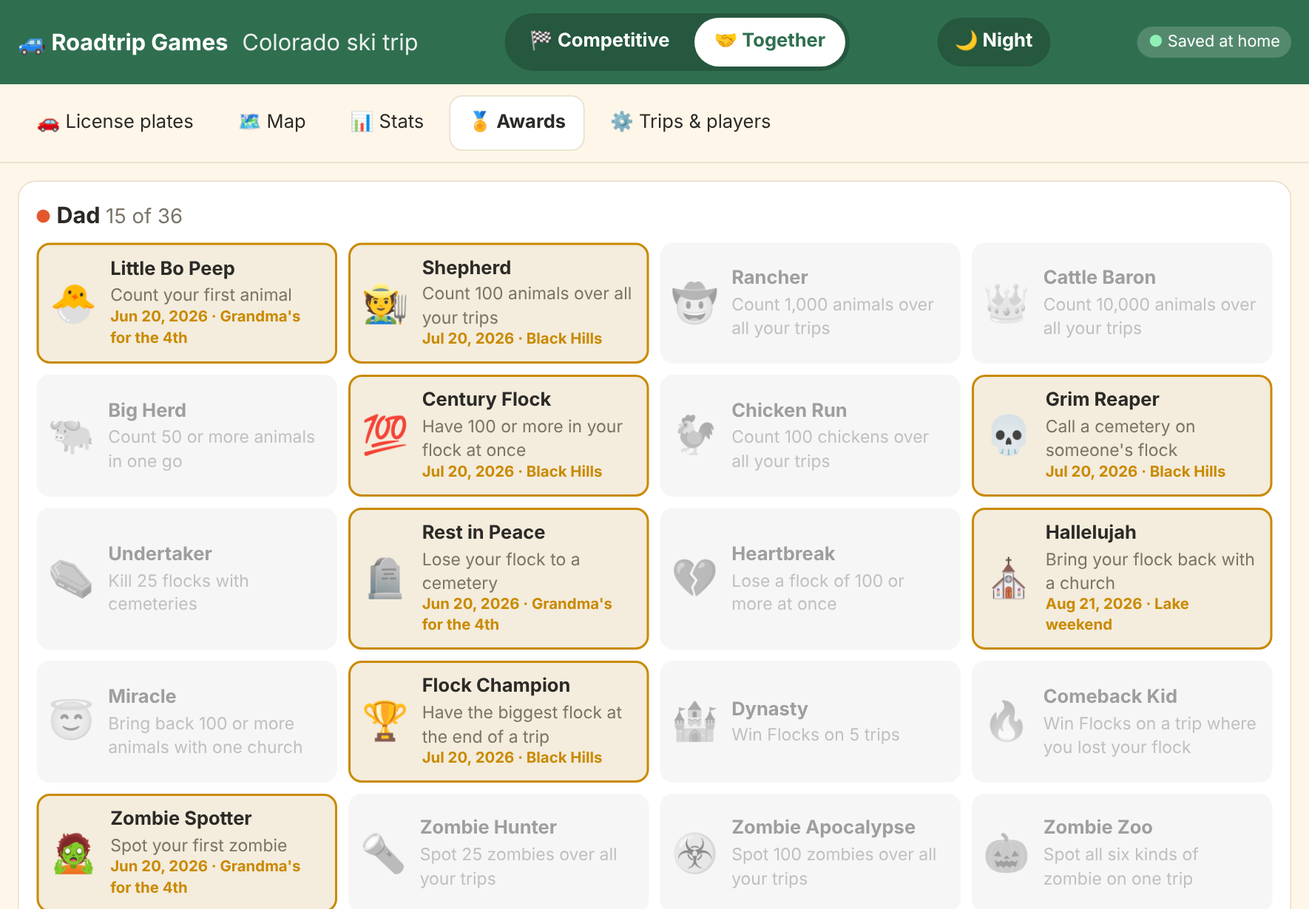
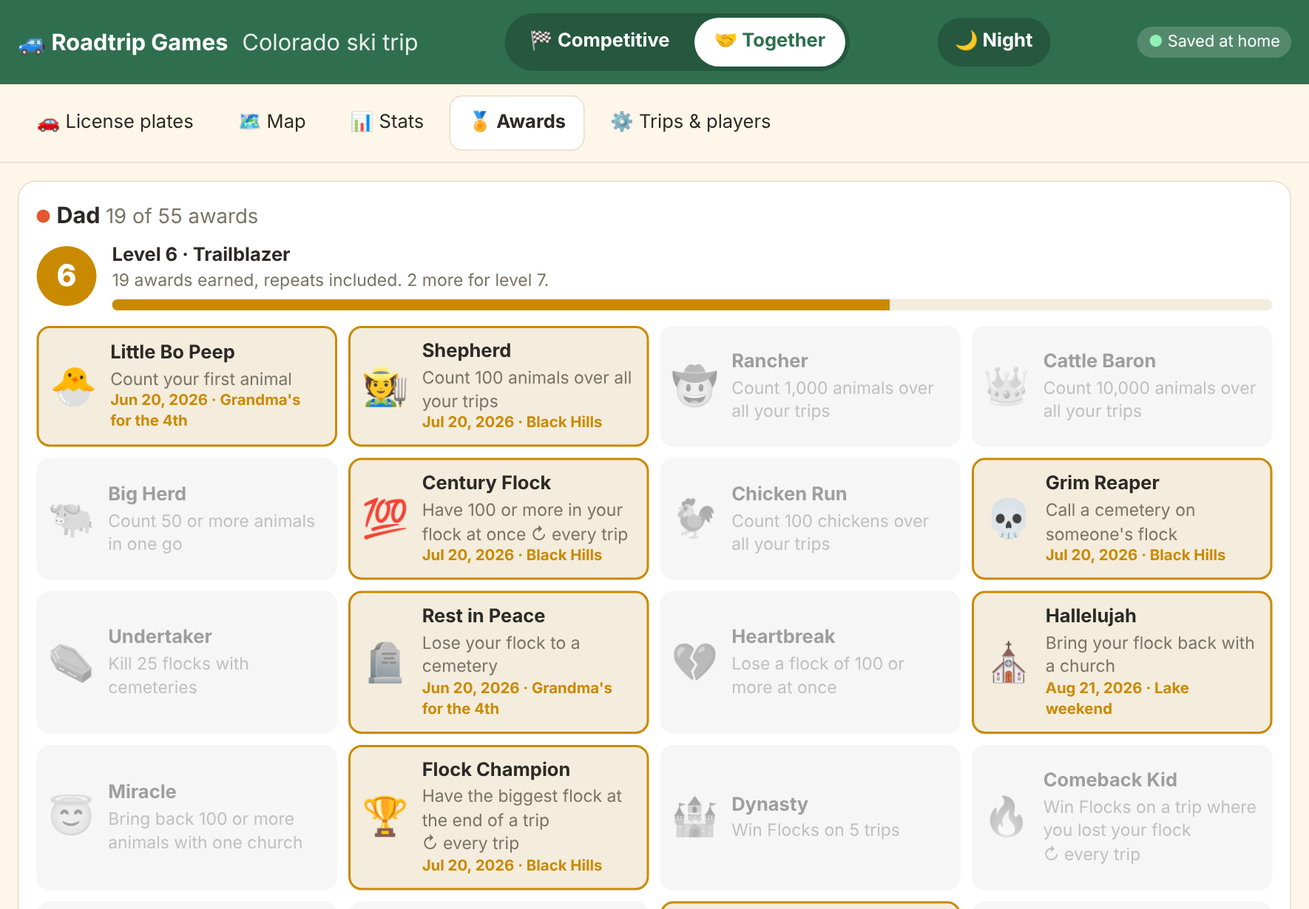
More awards: every-trip repeats, hidden zombie awards, player levels, Mexico and special plates
Claude-Session: https://claude.ai/code/session_01KLykwj4owJG8ijRHGYJAnb

Changed region(s): [[0.0, 0.2163, 0.9944, 1.0]]

diff --git a/web/games.js b/web/games.js
@@ -49,13 +49,15 @@ const PLATE_REGIONS = [
   { name: 'Southwest', country: 'US', plates: [['AZ', 'Arizona'], ['NM', 'New Mexico'], ['OK', 'Oklahoma'], ['TX', 'Texas']] },
   { name: 'West', country: 'US', plates: [['AK', 'Alaska'], ['CA', 'California'], ['CO', 'Colorado'], ['HI', 'Hawaii'], ['ID', 'Idaho'], ['MT', 'Montana'], ['NV', 'Nevada'], ['OR', 'Oregon'], ['UT', 'Utah'], ['WA', 'Washington'], ['WY', 'Wyoming']] },
   { name: 'Canada', country: 'CA', plates: [['AB', 'Alberta'], ['BC', 'British Columbia'], ['MB', 'Manitoba'], ['NB', 'New Brunswick'], ['NL', 'Newfoundland'], ['NS', 'Nova Scotia'], ['NT', 'NW Territories'], ['NU', 'Nunavut'], ['ON', 'Ontario'], ['PE', 'PEI'], ['QC', 'Quebec'], ['SK', 'Saskatchewan'], ['YT', 'Yukon']] },
+  { name: 'Mexico & special plates', country: 'X', plates: [['MX', 'Mexico'], ['PR', 'Puerto Rico'], ['DPL', 'Diplomat'], ['USG', 'US Government']] },
 ];
 
 // Plate codes are unique once Canadian ones get a "CA-" prefix (some letters overlap with states).
+const plateKey = (region, code) => region.country === 'CA' ? 'CA-' + code : code;
 const PLATES = {};
 for (const r of PLATE_REGIONS) {
   for (const [code, name] of r.plates) {
-    const key = r.country === 'CA' ? 'CA-' + code : code;
+    const key = plateKey(r, code);
     PLATES[key] = { key, code, name, region: r.name, country: r.country };
   }
 }
@@ -64,16 +66,34 @@ const US_STATES = Object.values(PLATES).filter(p => p.country === 'US' && p.key 
 const PLAYER_COLORS = ['#e4572e', '#2e86de', '#20bf6b', '#f7b731', '#8854d0', '#eb3b5a', '#0fb9b1', '#a5673f'];
 const MAX_PLAYERS = 4;
 
+// Dates for the hidden awards, in the iPad's own time zone.
+const day = ts => { const d = new Date(ts); return { m: d.getMonth() + 1, d: d.getDate(), wd: d.getDay(), h: d.getHours(), y: d.getFullYear() }; };
+// Within about a day of a full moon (counted from a known new moon).
+function fullMoon(ts) {
+  const age = (((ts - Date.UTC(2000, 0, 6, 18, 14)) / 86400000) % 29.530589 + 29.530589) % 29.530589;
+  return Math.abs(age - 14.765) <= 1.1;
+}
+// Easter Sunday (Gregorian), as month and day.
+function easter(y) {
+  const a = y % 19, b = Math.floor(y / 100), c = y % 100, d = Math.floor(b / 4), e = b % 4;
+  const f = Math.floor((b + 8) / 25), g = Math.floor((b - f + 1) / 3), h = (19 * a + b - d - g + 15) % 30;
+  const i = Math.floor(c / 4), k = c % 4, l = (32 + 2 * e + 2 * i - h - k) % 7, m = Math.floor((a + 11 * h + 22 * l) / 451);
+  return { m: Math.floor((h + l - 7 * m + 114) / 31), d: ((h + l - 7 * m + 114) % 31) + 1 };
+}
+const zombieOn = (c, test) => c.e.type === 'zombie.add' && test(day(c.e.ts), c.e);
+
 // Awards. Each check looks at one player: their lifetime totals (life) and,
-// during a trip, their part of that trip (tp). License plates are played
-// together, so plate awards go to everyone in the car.
+// during a trip, their part of that trip (tp), plus the event (e) that just
+// happened. License plates are played together, so plate awards go to everyone
+// in the car. A "repeat" award can be earned again on every trip; a "hidden"
+// one shows as a mystery until someone earns it.
 const AWARDS = [
   { id: 'first_flock', game: 'flocks', icon: '🐣', name: 'Little Bo Peep', desc: 'Count your first animal', check: c => c.life.animals >= 1 },
   { id: 'shepherd', game: 'flocks', icon: '🧑🌾', name: 'Shepherd', desc: 'Count 100 animals over all your trips', check: c => c.life.animals >= 100 },
   { id: 'rancher', game: 'flocks', icon: '🤠', name: 'Rancher', desc: 'Count 1,000 animals over all your trips', check: c => c.life.animals >= 1000 },
   { id: 'cattle_baron', game: 'flocks', icon: '👑', name: 'Cattle Baron', desc: 'Count 10,000 animals over all your trips', check: c => c.life.animals >= 10000 },
   { id: 'big_herd', game: 'flocks', icon: '🐃', name: 'Big Herd', desc: 'Count 50 or more animals in one go', check: c => c.life.biggest >= 50 },
-  { id: 'century', game: 'flocks', icon: '💯', name: 'Century Flock', desc: 'Have 100 or more in your flock at once', check: c => c.tp && c.tp.score >= 100 },
+  { id: 'century', repeat: true, game: 'flocks', icon: '💯', name: 'Century Flock', desc: 'Have 100 or more in your flock at once', check: c => c.tp && c.tp.score >= 100 },
   { id: 'chicken_run', game: 'flocks', icon: '🐓', name: 'Chicken Run', desc: 'Count 100 chickens over all your trips', check: c => (c.life.byAnimal.chicken || 0) >= 100 },
   { id: 'grim_reaper', game: 'flocks', icon: '💀', name: 'Grim Reaper', desc: 'Call a cemetery on someone\'s flock', check: c => c.life.kills >= 1 },
   { id: 'undertaker', game: 'flocks', icon: '⚰', name: 'Undertaker', desc: 'Kill 25 flocks with cemeteries', check: c => c.life.kills >= 25 },
@@ -81,34 +101,63 @@ const AWARDS = [
   { id: 'heartbreak', game: 'flocks', icon: '💔', name: 'Heartbreak', desc: 'Lose a flock of 100 or more at once', check: c => c.life.biggestLoss >= 100 },
   { id: 'hallelujah', game: 'flocks', icon: '⛪', name: 'Hallelujah', desc: 'Bring your flock back with a church', check: c => c.life.churches >= 1 },
   { id: 'miracle', game: 'flocks', icon: '😇', name: 'Miracle', desc: 'Bring back 100 or more animals with one church', check: c => c.life.biggestRaise >= 100 },
-  { id: 'champion', game: 'flocks', icon: '🏆', name: 'Flock Champion', desc: 'Have the biggest flock at the end of a trip', check: c => c.life.wins.flocks >= 1 },
+  { id: 'champion', repeat: true, game: 'flocks', icon: '🏆', name: 'Flock Champion', desc: 'Have the biggest flock at the end of a trip', check: c => c.won && c.won.includes('flocks') },
   { id: 'dynasty', game: 'flocks', icon: '🏰', name: 'Dynasty', desc: 'Win Flocks on 5 trips', check: c => c.life.wins.flocks >= 5 },
-  { id: 'comeback', game: 'flocks', icon: '🔥', name: 'Comeback Kid', desc: 'Win Flocks on a trip where you lost your flock', check: c => c.won && c.won.includes('flocks') && c.tp.deaths > 0 },
+  { id: 'comeback', repeat: true, game: 'flocks', icon: '🔥', name: 'Comeback Kid', desc: 'Win Flocks on a trip where you lost your flock', check: c => c.won && c.won.includes('flocks') && c.tp.deaths > 0 },
+  { id: 'old_macdonald', repeat: true, game: 'flocks', icon: '🚜', name: 'Old MacDonald', desc: 'Count all seven kinds of animal on one trip', check: c => c.tp && ANIMALS.every(a => c.tp.byAnimal[a.id]) },
+  { id: 'triple_crown', repeat: true, game: 'flocks', icon: '🎖', name: 'Triple Crown', desc: 'Win Flocks, Zombies and Volvos on the same trip', check: c => c.won && c.won.length === 3 },
+  { id: 'ghost_story', hidden: true, repeat: true, game: 'flocks', icon: '👻', name: 'Ghost Story', desc: 'Call a cemetery on Halloween', check: c => c.e.type === 'flock.cemetery' && day(c.e.ts).m === 10 && day(c.e.ts).d === 31 },
+  { id: 'easter', hidden: true, repeat: true, game: 'flocks', icon: '🥚', name: 'He Is Risen', desc: 'Bring your flock back with a church on Easter Sunday', check: c => { if (c.e.type !== 'flock.church') return false; const t = day(c.e.ts), x = easter(t.y); return t.m === x.m && t.d === x.d; } },
 
   { id: 'first_zombie', game: 'zombies', icon: '🧟', name: 'Zombie Spotter', desc: 'Spot your first zombie', check: c => c.life.zombies >= 1 },
   { id: 'zombie_hunter', game: 'zombies', icon: '🔦', name: 'Zombie Hunter', desc: 'Spot 25 zombies over all your trips', check: c => c.life.zombies >= 25 },
   { id: 'apocalypse', game: 'zombies', icon: '☣', name: 'Zombie Apocalypse', desc: 'Spot 100 zombies over all your trips', check: c => c.life.zombies >= 100 },
-  { id: 'zombie_zoo', game: 'zombies', icon: '🎃', name: 'Zombie Zoo', desc: 'Spot all six kinds of zombie on one trip', check: c => c.tp && ZOMBIES.every(z => c.tp.zombieBy[z.id]) },
-  { id: 'zombie_king', game: 'zombies', icon: '🦴', name: 'Zombie King', desc: 'Have the biggest zombie flock at the end of a trip', check: c => c.life.wins.zombies >= 1 },
+  { id: 'zombie_zoo', repeat: true, game: 'zombies', icon: '🐾', name: 'Zombie Zoo', desc: 'Spot all six kinds of zombie on one trip', check: c => c.tp && ZOMBIES.every(z => c.tp.zombieBy[z.id]) },
+  { id: 'zombie_king', repeat: true, game: 'zombies', icon: '🦴', name: 'Zombie King', desc: 'Have the biggest zombie flock at the end of a trip', check: c => c.won && c.won.includes('zombies') },
+  { id: 'oh_deer', repeat: true, game: 'zombies', icon: '🦌', name: 'Oh Deer', desc: 'Spot 10 zombie deer on one trip', check: c => c.tp && (c.tp.zombieBy.deer || 0) >= 10 },
+  { id: 'halloween', hidden: true, repeat: true, game: 'zombies', icon: '🎃', name: 'Trick or Treat', desc: 'Spot a zombie on Halloween', check: c => zombieOn(c, t => t.m === 10 && t.d === 31) },
+  { id: 'dia_muertos', hidden: true, repeat: true, game: 'zombies', icon: '🌼', name: 'Día de los Muertos', desc: 'Spot a zombie on the Day of the Dead (November 1 or 2)', check: c => zombieOn(c, t => t.m === 11 && t.d <= 2) },
+  { id: 'friday13', hidden: true, repeat: true, game: 'zombies', icon: '🔪', name: 'Friday the 13th', desc: 'Spot a zombie on Friday the 13th', check: c => zombieOn(c, t => t.wd === 5 && t.d === 13) },
+  { id: 'witching_hour', hidden: true, repeat: true, game: 'zombies', icon: '🕛', name: 'Witching Hour', desc: 'Spot a zombie between midnight and 3 in the morning', check: c => zombieOn(c, t => t.h < 3) },
+  { id: 'full_moon', hidden: true, repeat: true, game: 'zombies', icon: '🌕', name: 'Bad Moon Rising', desc: 'Spot a zombie on the night of a full moon', check: c => zombieOn(c, () => fullMoon(c.e.ts)) },
+  { id: 'rudolph', hidden: true, repeat: true, game: 'zombies', icon: '🎄', name: 'Grandma Got Run Over', desc: 'Spot a zombie deer on Christmas Eve or Christmas Day', check: c => zombieOn(c, (t, e) => e.data.animal === 'deer' && t.m === 12 && (t.d === 24 || t.d === 25)) },
 
   { id: 'first_volvo', game: 'volvos', icon: '🚚', name: 'Truck Spotter', desc: 'Spot your first Volvo truck', check: c => c.life.volvos >= 1 },
   { id: 'say_it_twice', game: 'volvos', icon: '🗣', name: 'Say It Twice', desc: 'Spot a Volvo truck with VOLVO on the fairing', check: c => c.life.volvoBranded >= 1 },
-  { id: 'rainbow', game: 'volvos', icon: '🌈', name: 'Rainbow Fleet', desc: 'Spot Volvo trucks in 6 colours on one trip', check: c => c.tp && Object.keys(c.tp.volvoBy).length >= 6 },
+  { id: 'rainbow', repeat: true, game: 'volvos', icon: '🌈', name: 'Rainbow Fleet', desc: 'Spot Volvo trucks in 6 colours on one trip', check: c => c.tp && Object.keys(c.tp.volvoBy).length >= 6 },
   { id: 'convoy', game: 'volvos', icon: '🛻', name: 'Convoy', desc: 'Spot 100 Volvo trucks over all your trips', check: c => c.life.volvos >= 100 },
-  { id: 'volvo_champ', game: 'volvos', icon: '🥇', name: 'Volvo Champion', desc: 'Score the most Volvo points on a trip', check: c => c.life.wins.volvos >= 1 },
+  { id: 'volvo_champ', repeat: true, game: 'volvos', icon: '🥇', name: 'Volvo Champion', desc: 'Score the most Volvo points on a trip', check: c => c.won && c.won.includes('volvos') },
+  { id: 'fleet', repeat: true, game: 'volvos', icon: '🚛', name: 'Fleet Manager', desc: 'Spot 25 Volvo trucks on one trip', check: c => c.tp && c.tp.volvos >= 25 },
 
   { id: 'first_plate', game: 'plates', icon: '🚗', name: 'Plate Spotters', desc: 'Your car finds its first plate', check: c => c.life.uniquePlates.size >= 1 },
   { id: 'aloha', game: 'plates', icon: '🌺', name: 'Aloha', desc: 'Your car finds a Hawaii plate', check: c => c.life.uniquePlates.has('HI') },
   { id: 'last_frontier', game: 'plates', icon: '🐻', name: 'Last Frontier', desc: 'Your car finds an Alaska plate', check: c => c.life.uniquePlates.has('AK') },
   { id: 'capital', game: 'plates', icon: '🏛', name: 'Capital Idea', desc: 'Your car finds a Washington DC plate', check: c => c.life.uniquePlates.has('DC') },
   { id: 'oh_canada', game: 'plates', icon: '🍁', name: 'Oh Canada', desc: 'Your car finds a Canadian plate', check: c => [...c.life.uniquePlates].some(k => k.startsWith('CA-')) },
-  { id: 'coast_to_coast', game: 'plates', icon: '🌊', name: 'Coast to Coast', desc: 'Maine and California on the same trip', check: c => c.trip && c.trip.plates.ME && c.trip.plates.CA },
-  { id: 'half_way', game: 'plates', icon: '🗺', name: 'Halfway There', desc: '25 states on one trip', check: c => c.trip && US_STATES.filter(s => c.trip.plates[s]).length >= 25 },
-  { id: 'full_house', game: 'plates', icon: '🎉', name: 'Full House', desc: 'All 50 states on one trip', check: c => c.trip && US_STATES.every(s => c.trip.plates[s]) },
+  { id: 'hola', game: 'plates', icon: '🌮', name: '¡Hola, México!', desc: 'Your car finds a Mexican plate', check: c => c.life.uniquePlates.has('MX') },
+  { id: 'isla', game: 'plates', icon: '🏝', name: 'Isla del Encanto', desc: 'Your car finds a Puerto Rico plate', check: c => c.life.uniquePlates.has('PR') },
+  { id: 'diplomat', game: 'plates', icon: '🕴', name: 'Diplomatic Immunity', desc: 'Your car finds a diplomat plate', check: c => c.life.uniquePlates.has('DPL') },
+  { id: 'gov_issue', game: 'plates', icon: '🦅', name: 'Government Issue', desc: 'Your car finds a US Government plate', check: c => c.life.uniquePlates.has('USG') },
+  { id: 'border_to_border', repeat: true, game: 'plates', icon: '🧭', name: 'Border to Border', desc: 'A Canadian and a Mexican plate on the same trip', check: c => c.trip && c.trip.plates.MX && Object.keys(c.trip.plates).some(k => k.startsWith('CA-')) },
+  { id: 'coast_to_coast', repeat: true, game: 'plates', icon: '🌊', name: 'Coast to Coast', desc: 'Maine and California on the same trip', check: c => c.trip && c.trip.plates.ME && c.trip.plates.CA },
+  { id: 'half_way', repeat: true, game: 'plates', icon: '🗺', name: 'Halfway There', desc: '25 states on one trip', check: c => c.trip && US_STATES.filter(s => c.trip.plates[s]).length >= 25 },
+  { id: 'full_house', repeat: true, game: 'plates', icon: '🧹', name: 'Clean Sweep', desc: 'All 50 states on one trip', check: c => c.trip && US_STATES.every(s => c.trip.plates[s]) },
   { id: 'fifty_club', game: 'plates', icon: '🇺🇸', name: 'Fifty Club', desc: 'All 50 states over all your trips', check: c => US_STATES.every(s => c.life.uniquePlates.has(s)) },
 
+  { id: 'buckle_up', game: 'trips', icon: '🚙', name: 'Buckle Up', desc: 'Play your first trip', check: c => c.life.trips >= 1 },
   { id: 'road_warrior', game: 'trips', icon: '🛣', name: 'Road Warrior', desc: 'Play on 10 trips', check: c => c.life.trips >= 10 },
+  { id: 'globetrotter', game: 'trips', icon: '🧳', name: 'Globetrotter', desc: 'Play on 25 trips', check: c => c.life.trips >= 25 },
 ];
+
+// Levels go up with every award earned, repeats included, like badges on a
+// watch. Each level needs one more award than the last: 1, 2, 3, ...
+const LEVEL_TITLES = ['Passenger', 'Backseat Spotter', 'Window Watcher', 'Road Scout', 'Navigator', 'Trailblazer', 'Road Tripper', 'Highway Hero', 'Road Royalty', 'Grand Tourer'];
+function levelFor(n) {
+  let level = 1, need = 0;
+  while (n >= need + level) { need += level; level++; }
+  const title = LEVEL_TITLES[Math.min(level, LEVEL_TITLES.length) - 1];
+  return { level, title, badges: n, from: need, to: need + level };
+}
 
 // The games decided at the end of a trip, and the score each is decided on.
 const CONTESTS = [
@@ -123,7 +172,7 @@ function emptyLife() {
     animals: 0, byAnimal: {}, biggest: 0, bestFlock: 0,
     kills: 0, deaths: 0, lost: 0, biggestLoss: 0, churches: 0, raised: 0, biggestRaise: 0,
     zombies: 0, zombieBy: {}, volvos: 0, volvoPoints: 0, volvoBy: {}, volvoBranded: 0,
-    uniquePlates: new Set(), awards: {},
+    uniquePlates: new Set(), awards: {}, badges: 0,
   };
 }
 
@@ -147,17 +196,25 @@ function buildState(events, seenIds) {
   const st = { players: {}, playerOrder: [], trips: {}, tripOrder: [], life: {}, newAwards: [], undone };
 
   const life = pid => st.life[pid] || (st.life[pid] = emptyLife());
+  // l.awards[id] is { ts, trip } of the first time, plus count, the last time
+  // and the trips it was earned on (a repeat award once per trip).
   const award = (pid, ctx, e) => {
     const l = life(pid);
+    const before = levelFor(l.badges).level;
+    const tripId = ctx.trip ? ctx.trip.id : null;
     for (const a of AWARDS) {
-      if (l.awards[a.id]) continue;
+      const got = l.awards[a.id];
+      if (got && (!a.repeat || !tripId || got.trips.includes(tripId))) continue;
       let ok = false;
-      try { ok = !!a.check({ life: l, ...ctx }); } catch (_) { ok = false; }
-      if (ok) {
-        l.awards[a.id] = { ts: e.ts, trip: ctx.trip ? ctx.trip.id : null };
-        if (seenIds && !seenIds.has(e.id)) st.newAwards.push({ player: pid, award: a.id });
-      }
+      try { ok = !!a.check({ life: l, e, ...ctx }); } catch (_) { ok = false; }
+      if (!ok) continue;
+      if (got) { got.count++; got.last = { ts: e.ts, trip: tripId }; got.trips.push(tripId); }
+      else l.awards[a.id] = { ts: e.ts, trip: tripId, count: 1, last: { ts: e.ts, trip: tripId }, trips: tripId ? [tripId] : [] };
+      l.badges++;
+      if (seenIds && !seenIds.has(e.id)) st.newAwards.push({ player: pid, award: a.id, count: l.awards[a.id].count });
     }
+    const after = levelFor(l.badges);
+    if (after.level > before && seenIds && !seenIds.has(e.id)) st.newAwards.push({ player: pid, level: after });
   };
   // A sighting on the map.
   const pin = (trip, e, kind, label, icon, pid) => {
@@ -359,4 +416,4 @@ function lastUndoable(events, st, tripId, playerId, game) {
   return best;
 }
 
-if (typeof module !== 'undefined') module.exports = { ANIMALS, ZOMBIES, VOLVO_COLORS, PLATES, PLATE_REGIONS, US_STATES, AWARDS, CONTESTS, PLAYER_COLORS, MAX_PLAYERS, volvoName, buildState, lastUndoable };
+if (typeof module !== 'undefined') module.exports = { ANIMALS, ZOMBIES, VOLVO_COLORS, PLATES, PLATE_REGIONS, US_STATES, AWARDS, LEVEL_TITLES, levelFor, plateKey, CONTESTS, PLAYER_COLORS, MAX_PLAYERS, volvoName, buildState, lastUndoable };

diff --git a/web/app.js b/web/app.js
@@ -53,11 +53,15 @@ function record(type, data) {
 
 function refresh(seenBefore) {
   state = buildState(db.events, seenBefore || null);
+  const lines = [];
   for (const n of state.newAwards) {
-    const a = AWARDS.find(x => x.id === n.award);
     const p = state.players[n.player];
-    if (a && p) toast(`${a.icon} ${esc(p.name)} earned <b>${a.name}</b>!`, true);
+    if (!p) continue;
+    if (n.level) { lines.push(`⭐ ${esc(p.name)} reached <b>level ${n.level.level}</b>, ${n.level.title}!`); continue; }
+    const a = AWARDS.find(x => x.id === n.award);
+    if (a) lines.push(`${a.icon} ${esc(p.name)} earned <b>${a.name}</b>${n.count > 1 ? ` (×${n.count})` : ''}!`);
   }
+  if (lines.length) toast(lines.join('<br>'), true);
   render();
 }
 
@@ -292,12 +296,13 @@ function viewPlates() {
   const seen = Object.keys(t.plates);
   const states = US_STATES.filter(s => t.plates[s]).length;
   const canada = seen.filter(k => k.startsWith('CA-')).length;
+  const special = seen.filter(k => PLATES[k] && PLATES[k].country === 'X').length;
   return `<div class="card plate-head">
-      <div><b class="bignum">${states}</b> of 50 states${t.plates.DC ? ' + DC' : ''}${canada ? ` · ${canada} Canadian` : ''}</div>
+      <div><b class="bignum">${states}</b> of 50 states${t.plates.DC ? ' + DC' : ''}${canada ? ` · ${canada} Canadian` : ''}${special ? ` · ${special} special` : ''}</div>
       <div class="muted">The whole car plays together. Tap a plate when anyone sees it.</div>
       <div class="bar"><div style="width:${states * 2}%"></div></div>
     </div>` + PLATE_REGIONS.map(r => `<h3 class="region">${r.name}</h3><div class="plates">` + r.plates.map(([code, name]) => {
-    const key = r.country === 'CA' ? 'CA-' + code : code;
+    const key = plateKey(r, code);
     const s = t.plates[key];
     return `<button class="plate${s ? ' seen' : ''}" data-act="plate" data-plate="${key}">
       <span class="code">${code}</span><span class="pl-name">${name}</span>${s ? `<span class="by">${fmtTime(s.ts)}</span>` : ''}</button>`;
@@ -400,7 +405,7 @@ function viewStats() {
 
   const everPlates = new Set();
   for (const pid of state.playerOrder) for (const k of state.life[pid].uniquePlates) everPlates.add(k);
-  const plates = `<div class="card"><h2>🚗 License plates, all-time</h2><p><b>${US_STATES.filter(s => everPlates.has(s)).length}</b> of 50 states seen${everPlates.has('DC') ? ' + DC' : ''} · <b>${[...everPlates].filter(k => k.startsWith('CA-')).length}</b> Canadian</p>
+  const plates = `<div class="card"><h2>🚗 License plates, all-time</h2><p><b>${US_STATES.filter(s => everPlates.has(s)).length}</b> of 50 states seen${everPlates.has('DC') ? ' + DC' : ''} · <b>${[...everPlates].filter(k => k.startsWith('CA-')).length}</b> Canadian · <b>${[...everPlates].filter(k => PLATES[k] && PLATES[k].country === 'X').length}</b> of ${Object.values(PLATES).filter(x => x.country === 'X').length} special</p>
     <p class="muted">Never seen yet: ${US_STATES.filter(s => !everPlates.has(s)).map(s => PLATES[s].name).join(', ') || 'nothing. You\'ve seen them all!'}</p></div>`;
 
   const win = (t, id) => t.end ? (t.winners[id].map(playerName).join(' & ') || '–') : '…';
@@ -417,14 +422,24 @@ function viewAwards() {
   if (!pids.length) return `<div class="card center"><p>Add players under Trips &amp; players first.</p></div>`;
   return pids.map(pid => {
     const l = state.life[pid];
+    const lv = levelFor(l.badges);
     const earned = AWARDS.filter(a => l.awards[a.id]).length;
-    return `<div class="card"><h2>${dot(pid)}${playerName(pid)} <span class="muted">${earned} of ${AWARDS.length}</span></h2><div class="awards">` +
-      AWARDS.map(a => {
+    const shown = AWARDS.filter(a => !a.hidden || l.awards[a.id]);
+    const secret = AWARDS.length - shown.length;
+    const when = w => { const trip = w.trip && state.trips[w.trip]; return `${fmtDate(w.ts)}${trip ? ' · ' + esc(trip.name) : ''}`; };
+    return `<div class="card"><h2>${dot(pid)}${playerName(pid)} <span class="muted">${earned} of ${AWARDS.length} awards</span></h2>
+      <div class="level"><span class="lvl">${lv.level}</span><div><b>Level ${lv.level} · ${lv.title}</b>
+        <div class="muted">${plural(l.badges, 'award', 'awards')} earned, repeats included. ${plural(lv.to - l.badges, 'more', 'more')} for level ${lv.level + 1}.</div>
+        <div class="bar"><div style="width:${Math.round(100 * (l.badges - lv.from) / (lv.to - lv.from))}%"></div></div></div></div>
+      <div class="awards">` +
+      shown.map(a => {
         const got = l.awards[a.id];
-        const trip = got && got.trip && state.trips[got.trip];
-        return `<div class="award${got ? ' got' : ''}"><div class="aicon">${a.icon}</div><div><b>${a.name}</b><div class="muted">${a.desc}</div>
-          ${got ? `<div class="when">${fmtDate(got.ts)}${trip ? ' · ' + esc(trip.name) : ''}</div>` : ''}</div></div>`;
-      }).join('') + `</div></div>`;
+        const times = got && got.count > 1 ? `<span class="times">×${got.count}</span>` : '';
+        return `<div class="award${got ? ' got' : ''}"><div class="aicon">${a.icon}</div><div><b>${a.name}</b>${times}<div class="muted">${a.desc}${a.repeat ? ' <span class="again">↻ every trip</span>' : ''}</div>
+          ${got ? `<div class="when">${got.count > 1 ? 'First ' + when(got) + '; last ' + when(got.last) : when(got)}</div>` : ''}</div></div>`;
+      }).join('') +
+      (secret ? `<div class="award secret"><div class="aicon">❔</div><div><b>${plural(secret, 'hidden award', 'hidden awards')}</b><div class="muted">Keep playing to find out. Zombies know a few.</div></div></div>` : '') +
+      `</div></div>`;
   }).join('');
 }
 

diff --git a/tests/games.test.js b/tests/games.test.js
@@ -1,10 +1,12 @@
 // Run with: node --test 'tests/*.test.js'
 const test = require('node:test');
 const assert = require('node:assert');
-const { buildState, lastUndoable, US_STATES, volvoName } = require('../web/games.js');
+const { buildState, lastUndoable, US_STATES, volvoName, levelFor, AWARDS } = require('../web/games.js');
 
+// An ordinary day (noon, no holiday, no full moon) so hidden awards stay hidden.
+const BASE = new Date(2026, 0, 20, 12).getTime();
 let clock = 0;
-const E = (type, data, id) => ({ id: id || 'e' + String(++clock).padStart(4, '0'), type, ts: clock * 1000, data });
+const E = (type, data, id, ts) => ({ id: id || 'e' + String(++clock).padStart(4, '0'), type, ts: ts || BASE + clock * 1000, data });
 
 function trip(players = ['mom', 'kid']) {
   clock = 0;
@@ -94,5 +96,48 @@ test('new awards are reported only for new events', () => {
   const seen = new Set(evs.map(e => e.id));
   evs.push(E('flock.add', { trip: 't1', player: 'mom', animal: 'cow', n: 99 }));
   const st = buildState(evs, seen);
-  assert.deepEqual(st.newAwards.map(a => a.award), ['shepherd', 'big_herd', 'century']);
+  assert.deepEqual(st.newAwards.filter(a => a.award).map(a => a.award), ['shepherd', 'big_herd', 'century']);
+  assert.deepEqual(st.newAwards.filter(a => a.level).map(a => a.level.level), [3], 'buckle up + first animal + 3 new = 5 awards, level 3');
+});
+
+test('repeat awards count once per trip and raise the level', () => {
+  const evs = trip();
+  for (const t of ['t1', 't2']) {
+    if (t === 't2') evs.push(E('trip.start', { id: 't2', name: 'Lake', players: ['mom', 'kid'] }));
+    evs.push(E('flock.add', { trip: t, player: 'kid', animal: 'cow', n: 150 }));
+    evs.push(E('flock.add', { trip: t, player: 'kid', animal: 'cow', n: 10 }));
+    evs.push(E('trip.end', { id: t }));
+  }
+  const st = buildState(evs);
+  const a = st.life.kid.awards;
+  assert.equal(a.champion.count, 2);
+  assert.deepEqual(a.champion.trips, ['t1', 't2']);
+  assert.equal(a.century.count, 2, 'once per trip, not once per count');
+  assert.equal(a.first_flock.count, 1, 'one-time awards stay one-time');
+  const total = Object.values(a).reduce((n, x) => n + x.count, 0);
+  assert.equal(st.life.kid.badges, total);
+  assert.equal(levelFor(st.life.kid.badges).level, levelFor(total).level);
+  assert.deepEqual([0, 1, 2, 3, 6, 10].map(n => levelFor(n).level), [1, 2, 2, 3, 4, 5]);
+});
+
+test('hidden zombie awards go by the date', () => {
+  const evs = trip();
+  evs.push(E('zombie.add', { trip: 't1', player: 'kid', animal: 'raccoon' }, null, new Date(2026, 9, 31, 18).getTime()));
+  evs.push(E('zombie.add', { trip: 't1', player: 'kid', animal: 'deer' }, null, new Date(2026, 11, 25, 1).getTime()));
+  evs.push(E('zombie.add', { trip: 't1', player: 'mom', animal: 'fox' }, null, new Date(2026, 1, 13, 14).getTime())); // Friday 13 Feb 2026
+  evs.push(E('zombie.add', { trip: 't1', player: 'mom', animal: 'fox' }, null, Date.UTC(2026, 4, 31, 8, 45) + 6 * 3600e3)); // full moon 31 May 2026
+  evs.push(E('flock.church', { trip: 't1', player: 'mom' }, null, new Date(2026, 3, 5, 10).getTime())); // Easter 2026
+  const st = buildState(evs);
+  for (const id of ['halloween', 'rudolph', 'witching_hour']) assert.ok(st.life.kid.awards[id], id);
+  for (const id of ['friday13', 'full_moon', 'easter']) assert.ok(st.life.mom.awards[id], id);
+  assert.ok(!st.life.kid.awards.friday13 && !st.life.mom.awards.halloween);
+  assert.ok(AWARDS.filter(x => x.hidden).every(x => x.repeat));
+});
+
+test('Mexico, Puerto Rico, diplomat and government plates', () => {
+  const evs = trip();
+  for (const p of ['MX', 'PR', 'DPL', 'USG', 'CA-ON']) evs.push(E('plate.spot', { trip: 't1', plate: p }));
+  const st = buildState(evs);
+  for (const id of ['hola', 'isla', 'diplomat', 'gov_issue', 'border_to_border']) assert.ok(st.life.kid.awards[id], id);
+  assert.ok(!US_STATES.includes('PR'), 'Puerto Rico does not count toward the 50');
 });

diff --git a/web/style.css b/web/style.css
@@ -172,6 +172,14 @@ table.stats { border-collapse: collapse; width: 100%; font-variant-numeric: tabu
 .award.got { opacity: 1; filter: none; border: 2px solid var(--amber); }
 .aicon { font-size: 2em; }
 .when { font-size: 0.8em; color: var(--amber); font-weight: 700; }
+.award.secret { opacity: 0.7; border: 2px dashed var(--line); }
+.times { margin-left: 6px; background: var(--amber); color: #fff; border-radius: 99px; padding: 0 8px; font-size: 0.85em; font-weight: 800; }
+.again { white-space: nowrap; }
+.level { display: flex; gap: 14px; align-items: center; margin: 4px 0 14px; }
+.level > div { flex: 1; }
+.level .bar { margin-top: 6px; }
+.level .bar div { background: var(--amber); }
+.lvl { flex: none; width: 54px; height: 54px; border-radius: 50%; display: grid; place-items: center; font-size: 1.6em; font-weight: 800; color: #fff; background: var(--amber); }
 
 /* Setup */
 .plist { margin-bottom: 10px; }

diff --git a/web/sw.js b/web/sw.js
@@ -1,6 +1,6 @@
 // Keeps a copy of the page on the tablet so it opens with no signal.
 // Only used when the page is reached over https (browsers' rule).
-const CACHE = 'roadtrip-v3';
+const CACHE = 'roadtrip-v4';
 const FILES = ['./', 'index.html', 'style.css', 'games.js', 'app.js', 'icon.svg', 'manifest.json', 'vendor/leaflet.js', 'vendor/leaflet.css'];
 
 self.addEventListener('install', e => {

diff --git a/main.go b/main.go
@@ -19,7 +19,7 @@ import (
 	_ "time/tzdata" // so TZ works in the tiny Docker image, which has no time zone files
 )
 
-var appVersion = "0.2.0"
+var appVersion = "0.3.0"
 
 func main() {
 	dir := flag.String("data", dataDir(), "folder for the game history")

diff --git a/README.md b/README.md
@@ -51,7 +51,7 @@ Each panel's **↩ Undo** takes back that player's last tap in that game.
 
 ### 🚗 License plates (together)
 
-The whole car plays as one team. Tap a state or province the moment anyone sees it, and the tile shows when you found it. All 50 states, Washington DC and the Canadian provinces and territories are there. Tap a found plate to take it back.
+The whole car plays as one team. Tap a state or province the moment anyone sees it, and the tile shows when you found it. All 50 states, Washington DC, the Canadian provinces and territories, Mexico, Puerto Rico, diplomat plates and US Government plates are there. Tap a found plate to take it back.
 
 ![License plates, played together](docs/screenshots/plates.png)
 
@@ -69,7 +69,11 @@ When the iPad uses the home server's secure address (see [Setting up the iPad](#
 
 ![All-time stats](docs/screenshots/stats.png)
 
-**Awards** shows all 36 awards for each player, earned or not, with when and on which trip each was won. A pop-up announces each one the moment it's earned. Some favourites: *Grim Reaper*, *Heartbreak* (lose a flock of 100), *Hallelujah*, *Miracle* (a church brings back 100), *Comeback Kid*, *Zombie Zoo*, *Say It Twice*, *Rainbow Fleet*, *Coast to Coast* and *Fifty Club*.
+**Awards** shows each player's awards, earned or not, with when and on which trip each was won. A pop-up announces each one the moment it's earned. Some favourites: *Grim Reaper*, *Heartbreak* (lose a flock of 100), *Miracle* (a church brings back 100), *Comeback Kid*, *Triple Crown* (win all three games on one trip), *Say It Twice*, *Rainbow Fleet*, *Clean Sweep* (all 50 states on one trip) and *Fifty Club*.
+
+- **Every-trip awards** (marked ↻) can be won again on every trip, like winning Flocks or a Clean Sweep, and show how many times you've won them.
+- **Hidden awards** stay a mystery until someone earns one. Zombies spotted on certain days know a few of them.
+- **Levels:** every award you earn, repeats included, counts toward your level, like the badges on a fitness watch. Level 2 takes 1 award, level 3 takes 3, level 4 takes 6, and so on. Each level needs one more award than the last.
 
 ![Awards](docs/screenshots/awards.png)
 
